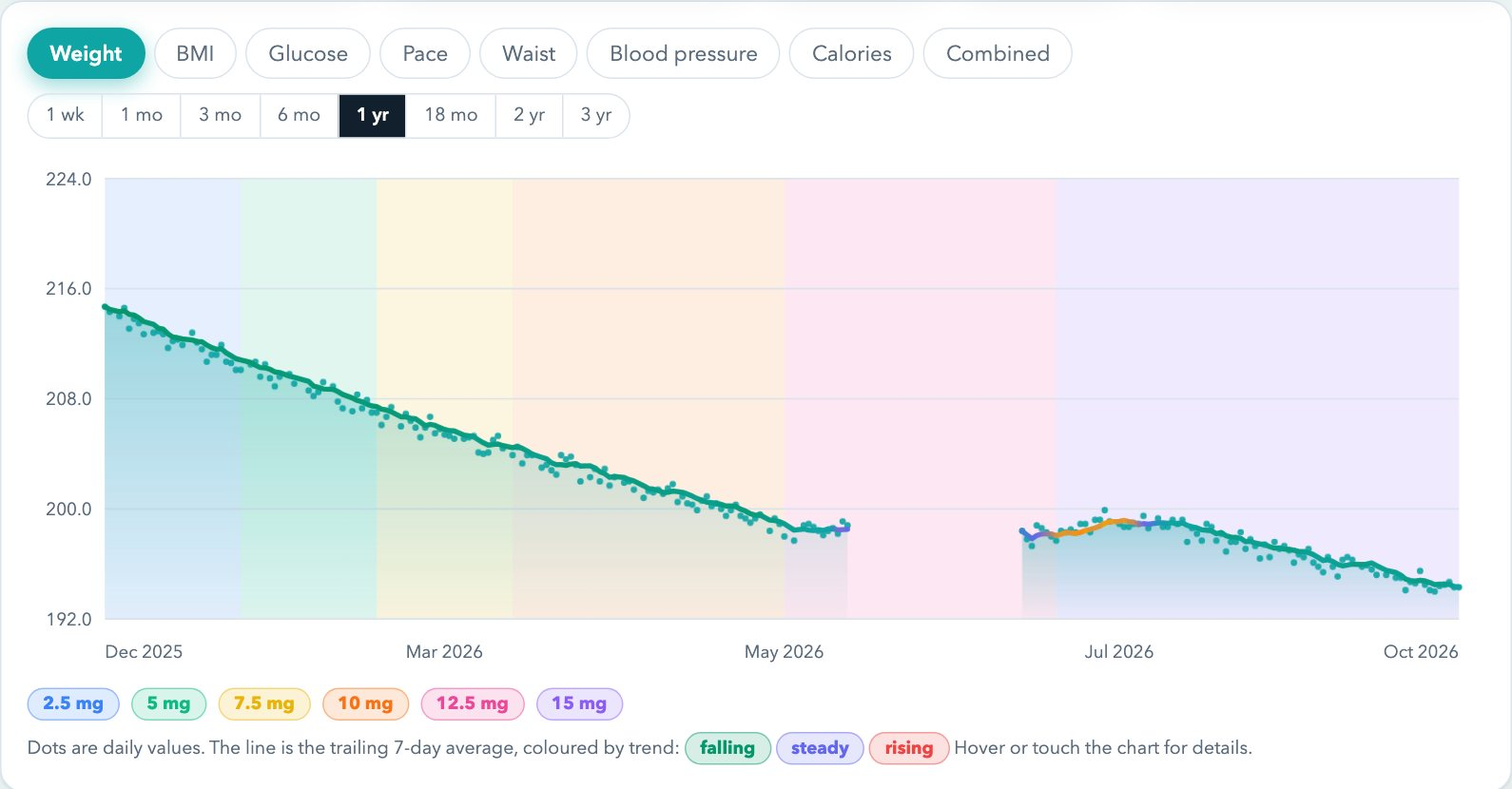
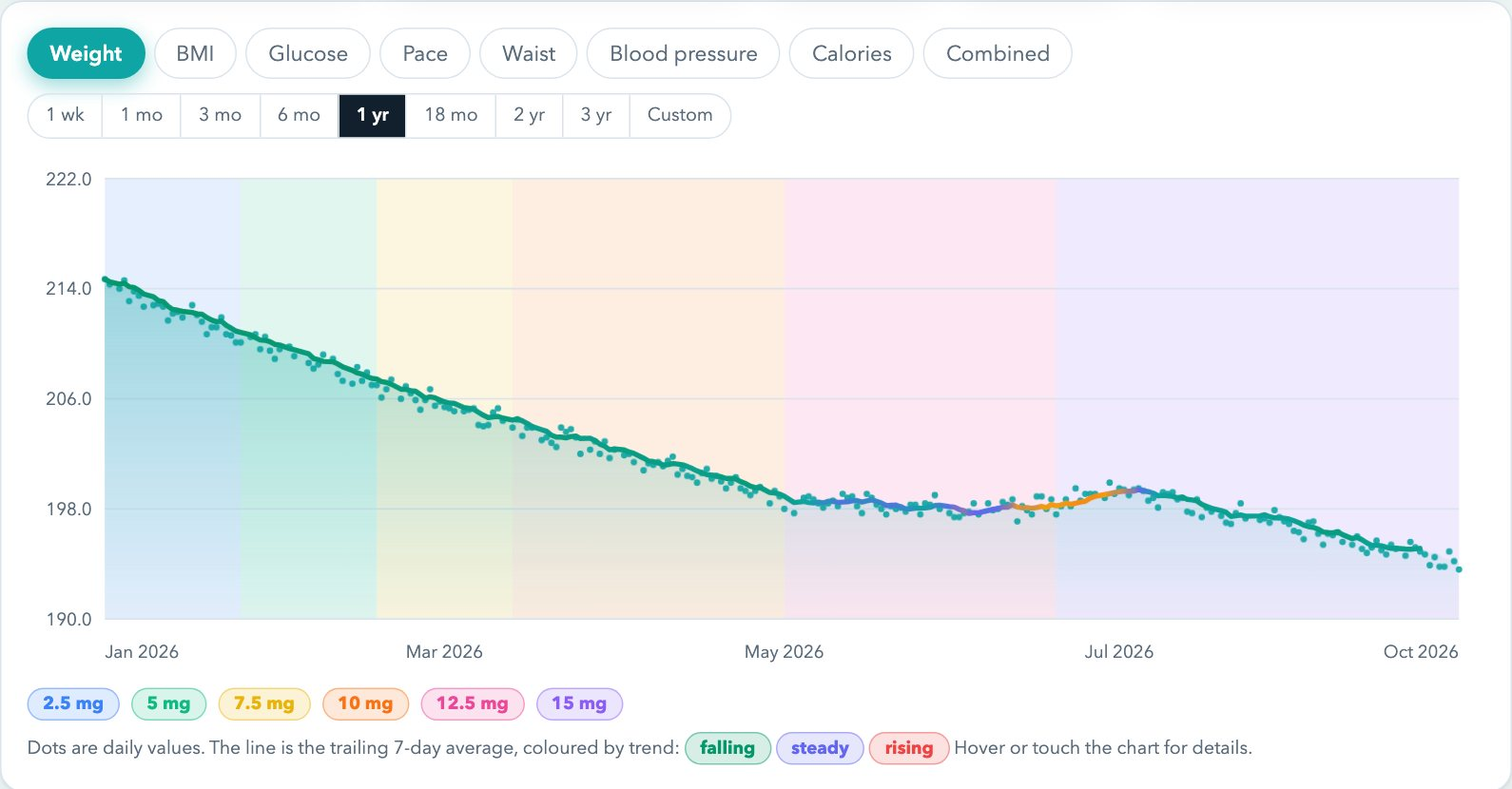
Charts: Custom From/To range with Earlier/Later steps; demo data without the holiday gap and a gap-free landing image

diff --git a/index.html b/index.html
@@ -266,13 +266,19 @@
   .seg button + button { border-left: 1px solid var(--line); }
   .seg button[aria-pressed="true"] { background: var(--ink); color: var(--panel); font-weight: 600; }
   .seg button { white-space: nowrap; }
-  /* eight range choices: two rows of four on a phone instead of a pill that runs off the screen */
+  /* nine range choices: two rows (five, then four) on a phone instead of a pill that runs off the screen */
   @media (max-width: 640px) {
-    #range { display: grid; grid-template-columns: repeat(4, 1fr); width: 100%; border-radius: 14px; }
+    #range { display: grid; grid-template-columns: repeat(5, 1fr); width: 100%; border-radius: 14px; }
     #range button { padding: 7px 4px; text-align: center; }
-    #range button:nth-child(n+5) { border-top: 1px solid var(--line); }
-    #range button:nth-child(4n+1) { border-left: 0; }
+    #range button:nth-child(n+6) { border-top: 1px solid var(--line); }
+    #range button:nth-child(5n+1) { border-left: 0; }
   }
+  .custom-range { display: flex; flex-wrap: wrap; align-items: center; gap: 8px 12px; margin-bottom: 12px; }
+  .custom-range[hidden] { display: none; }
+  .custom-range label { display: flex; align-items: center; gap: 6px; font-size: 13px; color: var(--muted); }
+  .custom-range input[type="date"] { font: inherit; font-size: 14px; color: var(--ink); background: color-mix(in srgb, var(--bg) 60%, var(--panel)); border: 1px solid var(--line); border-radius: var(--radius); padding: 4px 8px; }
+  .custom-range .note { margin: 0; flex-basis: 100%; }
+  .custom-range .note:empty { display: none; }
 
   #chart { position: relative; }
   svg { width: 100%; height: auto; display: block; touch-action: pan-y; }
@@ -514,7 +520,15 @@
         <button type="button" data-days="548" aria-pressed="false">18 mo</button>
         <button type="button" data-days="730" aria-pressed="false">2 yr</button>
         <button type="button" data-days="1095" aria-pressed="false">3 yr</button>
+        <button type="button" data-days="custom" aria-pressed="false">Custom</button>
       </div>
+    </div>
+    <div class="custom-range" id="customRange" role="group" aria-label="Custom date range" hidden>
+      <button type="button" class="small" id="cPrev" aria-label="Show the earlier period of the same length">&#9664; Earlier</button>
+      <label>From <input type="date" id="cFrom"></label>
+      <label>To <input type="date" id="cTo"></label>
+      <button type="button" class="small" id="cNext" aria-label="Show the later period of the same length">Later &#9654;</button>
+      <span class="note" id="customNote" role="status"></span>
     </div>
     <div class="legend cmp-pick" id="cmpPick" role="group" aria-label="Values to show on the combined chart" hidden></div>
     <div id="chart" role="tabpanel" aria-labelledby="tab-weight"></div>
@@ -714,7 +728,7 @@
   var DEMO = !SHARE_TOKEN && /^\/demo(\.html)?\/?$/.test(location.pathname);
 
   // Nine months of invented data that fills every field: dose steps up every four weeks or so, weight falls with a plateau and a small
-  // rise, a five-week holiday gap, comments, calories, food notes, glucose, injection sites, blood pressure, waist, body fat and muscle.
+  // rise, comments, calories, food notes, glucose, injection sites, blood pressure, waist, body fat and muscle.
   function demoStart() { return addDays(today(), -(40 * 7 - 1)); }
   function demoSettings() { return { goal: 175, heightIn: 69, units: 'us', doseDay: weekday(demoStart()) }; }
   function demoEntries() {
@@ -733,7 +747,6 @@
     var start = demoStart(), inj = weekday(start), siteN = 0, list = [], total = 40 * 7;
     for (var i = 0; i < total; i++) {
       var d = addDays(start, i), wk = i / 7, dow = (weekday(d) - inj + 7) % 7, last = i === total - 1;
-      if (!last && wk >= 22 && wk < 27) continue;                 // a holiday with no logging
       if (!last && dow !== 0 && rnd() < 0.12) continue;           // the odd missed day
       var dose = 2.5; DOSE_AT.forEach(function (x) { if (wk >= x[0]) dose = x[1]; });
       var e = { date: d, dose: dose, weight: r1(base(wk) + (rnd() - 0.5) * 1.4 + (dow >= 3 && dow <= 5 ? 0.4 : 0)),
@@ -1417,12 +1430,25 @@
   /* ---------- chart ---------- */
   // How much history the charts show, counted back from the latest entry. Three months unless the person chose otherwise
   // (the choice is remembered on this device only). Mirrored by ChartRange in the iPhone app.
+  // "Custom" lets the person pick exact From and To dates (and step earlier or later by the same length) to look at history closely.
   var RANGE_DAYS = [7, 30, 90, 180, 365, 548, 730, 1095], DEFAULT_RANGE = 90, RANGE_KEY = 'tirzepatide-chart-range';
+  var customFrom = null, customTo = null;   // ISO dates while the range is 'custom'
+  function isoDate(v) { return /^\d{4}-\d{2}-\d{2}$/.test(v || '') && !isNaN(new Date(v + 'T00:00:00').getTime()); }
   function loadRange() {
     if (SHARE_TOKEN || DEMO) return DEFAULT_RANGE;
-    try { var v = parseInt(localStorage.getItem(RANGE_KEY), 10); if (RANGE_DAYS.indexOf(v) >= 0) return v; } catch (e) {}
+    try {
+      var raw = localStorage.getItem(RANGE_KEY) || '', c = /^custom\|(\d{4}-\d{2}-\d{2})\|(\d{4}-\d{2}-\d{2})$/.exec(raw);
+      if (c && isoDate(c[1]) && isoDate(c[2]) && c[1] <= c[2]) { customFrom = c[1]; customTo = c[2]; return 'custom'; }
+      var v = parseInt(raw, 10); if (RANGE_DAYS.indexOf(v) >= 0) return v;
+    } catch (e) {}
     return DEFAULT_RANGE;
   }
+  function saveRange() {
+    if (SHARE_TOKEN || DEMO) return;
+    try { localStorage.setItem(RANGE_KEY, currentRange === 'custom' ? 'custom|' + customFrom + '|' + customTo : String(currentRange)); } catch (e) {}
+  }
+  // What the chart builders take: the last N days back from the latest entry, or an exact From/To window
+  function rangeOpts() { return currentRange === 'custom' ? { from: customFrom, to: customTo } : { days: currentRange }; }
   var currentMetric = 'weight', currentRange = loadRange(), chartSeq = 0;
   var METRICS = {
     weight: { key: 'weight', get label() { return 'Weight (' + WUC() + ')'; }, color: '#0ea5a4', dec: 1 },
@@ -1538,10 +1564,11 @@
                                 : (!o.days || dayDiff(e.date, lastAll) <= o.days);
       if (ok) idxs.push(i);
     });
-    if (!idxs.length) { if (o.print) return null; idxs = [series.length - 1]; }
+    if (!idxs.length) { if (o.print || o.from || o.to) return null; idxs = [series.length - 1]; }
     var pts = idxs.map(function (i) { return { e: series[i], v: series[i][vk], a: avg[i], d: bp ? series[i].dia : null, a2: bp ? avg2[i] : null }; });
     var single = pts.length === 1;
-    var t0 = pts[0].e.date, tN = pts[pts.length - 1].e.date, span = Math.max(dayDiff(t0, tN), 1);
+    // an exact window (custom range) spans the whole of it on the axis, even where readings are sparse
+    var t0 = o.from || pts[0].e.date, tN = o.to || pts[pts.length - 1].e.date, span = Math.max(dayDiff(t0, tN), 1);
 
     var W = 900, H = o.print ? 300 : 320, L = 48, R = 16, T = o.title ? 32 : 14, B = 34, gid = 'ag' + (++chartSeq);
     var C = o.print ? { line: '#dbe4ec', muted: '#5a6b7c', panel: '#ffffff' } : { line: 'var(--line)', muted: 'var(--muted)', panel: 'var(--panel)' };
@@ -1673,7 +1700,7 @@
     if (!lines.length) return null;
     var dates = [];
     rows.forEach(function (e) { if (lines.some(function (l) { return l.s.val(e) !== null && l.s.val(e) !== undefined; })) dates.push(e); });
-    var t0 = dates[0].date, tN = dates[dates.length - 1].date, span = Math.max(dayDiff(t0, tN), 1), single = dates.length === 1;
+    var t0 = o.from || dates[0].date, tN = o.to || dates[dates.length - 1].date, span = Math.max(dayDiff(t0, tN), 1), single = dates.length === 1;
     var W = 900, H = o.print ? 320 : 320, L = 48, R = 16, T = o.print ? 50 : 14, B = 34;
     var C = o.print ? { line: '#dbe4ec', muted: '#5a6b7c', panel: '#ffffff' } : { line: 'var(--line)', muted: 'var(--muted)', panel: 'var(--panel)' };
     function X(d) { return single ? L + (W - L - R) / 2 : L + (dayDiff(t0, d) / span) * (W - L - R); }
@@ -1738,10 +1765,10 @@
       return '<button type="button" class="chip" data-cmp="' + x.k + '" style="--c:' + x.color + '" aria-pressed="' + (picked[x.k] ? 'true' : 'false') + '"' +
         (off ? ' disabled title="Set your height on the BMI card first"' : '') + '>' + esc(x.label) + '</button>';
     }).join('');
-    var res = buildCompare({ days: currentRange });
+    var res = buildCompare(rangeOpts());
     $('legend').innerHTML = '';
     if (!res) {
-      $('chart').innerHTML = '<div class="empty">' + (chosen.length ? 'No values to plot for the chosen items yet.' : 'Choose at least one item above.') + '</div>';
+      $('chart').innerHTML = '<div class="empty">' + (chosen.length ? (currentRange === 'custom' ? 'No readings of the chosen items between ' + esc(fmtDate(customFrom)) + ' and ' + esc(fmtDate(customTo)) + '.' : 'No values to plot for the chosen items yet.') : 'Choose at least one item above.') + '</div>';
       return;
     }
     $('chart').innerHTML = '<div class="tip" id="tip"></div>' + res.svg;
@@ -1795,9 +1822,9 @@
     if (currentMetric === 'compare') { renderCompare(); return; }
     $('tab-bmi').hidden = !settings.heightIn;
     if (currentMetric === 'bmi' && !settings.heightIn) { selectTab($('tab-weight')); return; }
-    var m = METRICS[currentMetric], res = buildChart(currentMetric, { days: currentRange });
+    var m = METRICS[currentMetric], res = buildChart(currentMetric, rangeOpts());
     if (!res) {
-      $('chart').innerHTML = '<div class="empty">No ' + esc(m.label) + ' values to plot yet.</div>';
+      $('chart').innerHTML = '<div class="empty">' + (currentRange === 'custom' ? 'No ' + esc(m.label) + ' readings between ' + esc(fmtDate(customFrom)) + ' and ' + esc(fmtDate(customTo)) + '.' : 'No ' + esc(m.label) + ' values to plot yet.') + '</div>';
       $('legend').innerHTML = '';
       return;
     }
@@ -2217,15 +2244,50 @@
     });
   });
   tabs.forEach(function (t) { t.style.setProperty('--c', METRICS[t.dataset.metric].color); });
-  Array.prototype.forEach.call($('range').querySelectorAll('button'), function (x) { x.setAttribute('aria-pressed', parseInt(x.dataset.days, 10) === currentRange ? 'true' : 'false'); });
-  Array.prototype.forEach.call($('range').querySelectorAll('button'), function (b) {
+  var rangeBtns = Array.prototype.slice.call($('range').querySelectorAll('button'));
+  function syncRangeUi() {
+    rangeBtns.forEach(function (x) {
+      var on = x.dataset.days === 'custom' ? currentRange === 'custom' : +x.dataset.days === currentRange;
+      x.setAttribute('aria-pressed', on ? 'true' : 'false');
+    });
+    $('customRange').hidden = currentRange !== 'custom';
+    if (currentRange === 'custom') { $('cFrom').value = customFrom; $('cTo').value = customTo; }
+  }
+  rangeBtns.forEach(function (b) {
     b.addEventListener('click', function () {
-      currentRange = parseInt(b.dataset.days, 10);
-      if (!SHARE_TOKEN && !DEMO) { try { localStorage.setItem(RANGE_KEY, String(currentRange)); } catch (e) {} }
-      Array.prototype.forEach.call($('range').querySelectorAll('button'), function (x) { x.setAttribute('aria-pressed', x === b ? 'true' : 'false'); });
-      renderChart();
+      if (b.dataset.days === 'custom') {
+        if (currentRange !== 'custom') {   // start from what is on screen now
+          var all = sorted(), last = all.length ? all[all.length - 1].date : today();
+          customTo = last;
+          customFrom = typeof currentRange === 'number' ? addDays(last, -currentRange) : last;
+          if (all.length && customFrom < all[0].date) customFrom = all[0].date;
+          currentRange = 'custom';
+        }
+      } else currentRange = parseInt(b.dataset.days, 10);
+      saveRange(); syncRangeUi(); renderChart();
     });
   });
+  // From/To dates and the step buttons; the window may not be backwards
+  function setCustom(from, to) {
+    if (!isoDate(from) || !isoDate(to)) return false;
+    if (from > to) { $('customNote').textContent = 'The From date must not be after the To date.'; return false; }
+    customFrom = from; customTo = to; currentRange = 'custom';
+    $('customNote').textContent = '';
+    saveRange(); syncRangeUi(); renderChart();
+    return true;
+  }
+  ['cFrom', 'cTo'].forEach(function (id) {
+    $(id).addEventListener('change', function () {
+      if (!setCustom($('cFrom').value, $('cTo').value)) { $('cFrom').value = customFrom; $('cTo').value = customTo; }
+    });
+  });
+  function stepCustom(dir) {
+    var len = dayDiff(customFrom, customTo) + 1;
+    setCustom(addDays(customFrom, dir * len), addDays(customTo, dir * len));
+  }
+  $('cPrev').addEventListener('click', function () { stepCustom(-1); });
+  $('cNext').addEventListener('click', function () { stepCustom(1); });
+  syncRangeUi();
   $('pager').addEventListener('click', function (ev) {
     var b = ev.target.closest('button[data-page]');
     if (!b || b.disabled) return;

diff --git a/tests/smoke.spec.js b/tests/smoke.spec.js
@@ -642,6 +642,74 @@ test('insights: no fast-loss notice for a gentle pace; gaps are reported', async
   await expect(page.locator('#insights .ins', { hasText: 'Weigh-ins' })).toContainText('Longest gap 9 days');
 });
 
+// steadyLossCsv(): one weigh-in a day from 2026-08-01 (200 lbs, down 0.5 a day) for 57 days
+async function customRange(page, from, to) {
+  await page.locator('#range button[data-days="custom"]').click();
+  await page.locator('#cFrom').fill(from); await page.locator('#cTo').fill(to);
+}
+
+test('custom chart range: exact From and To dates, kept after a reload', async ({ page }) => {
+  await pasteCsv(page, steadyLossCsv());
+  await expect(page.locator('#customRange')).toBeHidden();
+  await page.locator('#range button[data-days="custom"]').click();
+  await expect(page.locator('#customRange')).toBeVisible();
+  await expect(page.locator('#range button[data-days="custom"]')).toHaveAttribute('aria-pressed', 'true');
+  await expect(page.locator('#range button[data-days="90"]')).toHaveAttribute('aria-pressed', 'false');
+
+  await customRange(page, '2026-08-10', '2026-08-19');
+  const svg = page.locator('#chart svg[role="img"]');
+  await svg.focus();
+  await page.keyboard.press('Home');
+  await expect(page.locator('#tip')).toContainText(/Aug(ust)? 10|10 Aug/);
+  await expect(page.locator('#tip')).toContainText('195.5');           // 200 - 0.5 x 9
+  await page.keyboard.press('End');
+  await expect(page.locator('#tip')).toContainText(/Aug(ust)? 19|19 Aug/);
+  await expect(page.locator('#tip')).toContainText('191.0');
+
+  await page.reload();
+  await expect(page.locator('#range button[data-days="custom"]')).toHaveAttribute('aria-pressed', 'true');
+  await expect(page.locator('#cFrom')).toHaveValue('2026-08-10');
+  await expect(page.locator('#cTo')).toHaveValue('2026-08-19');
+  await page.locator('#range button[data-days="30"]').click();
+  await expect(page.locator('#customRange')).toBeHidden();
+  await page.reload();
+  await expect(page.locator('#range button[data-days="30"]')).toHaveAttribute('aria-pressed', 'true');
+});
+
+test('custom chart range: step earlier and later by the same length, backwards dates refused, empty window explained', async ({ page }) => {
+  await pasteCsv(page, steadyLossCsv());
+  await customRange(page, '2026-08-10', '2026-08-19');
+  await page.locator('#cNext').click();
+  await expect(page.locator('#cFrom')).toHaveValue('2026-08-20');
+  await expect(page.locator('#cTo')).toHaveValue('2026-08-29');
+  await page.locator('#cPrev').click();
+  await page.locator('#cPrev').click();
+  await expect(page.locator('#cFrom')).toHaveValue('2026-07-31');
+  await expect(page.locator('#cTo')).toHaveValue('2026-08-09');
+  await expect(page.locator('#chart svg[role="img"]')).toBeVisible();
+
+  await page.locator('#cFrom').fill('2026-09-01');                      // after To: refused, the old window stays
+  await expect(page.locator('#customNote')).toContainText('must not be after');
+  await expect(page.locator('#cFrom')).toHaveValue('2026-07-31');
+
+  await customRange(page, '2026-01-01', '2026-01-31');                  // before any reading
+  await expect(page.locator('#chart .empty')).toContainText('between');
+  await expect(page.locator('#chart svg[role="img"]')).toHaveCount(0);
+});
+
+test('custom chart range: the axis spans the chosen window and the combined chart follows it', async ({ page }) => {
+  await pasteCsv(page, steadyLossCsv());
+  await customRange(page, '2026-08-10', '2026-09-10');                  // a window that runs past the last reading's neighbours
+  const labels = await page.locator('#chart svg[role="img"] text').allTextContents();
+  expect(labels.some((t) => /Aug(ust)? 10|10 Aug/.test(t))).toBe(true);
+  expect(labels.some((t) => /Sep(tember)? 10|10 Sep/.test(t))).toBe(true);
+  await page.locator('#tab-compare').click();
+  await expect(page.locator('#chart svg[role="img"]')).toBeVisible();
+  await page.locator('#chart svg[role="img"]').focus();
+  await page.keyboard.press('Home');
+  await expect(page.locator('#tip')).toContainText(/Aug(ust)? 10|10 Aug/);
+});
+
 test('pace chart tab: zero line, fast-loss line and orange dots', async ({ page }) => {
   await pasteCsv(page, steadyLossCsv());
   await page.locator('#tab-rate').click();
@@ -871,7 +939,7 @@ test('the weight line is coloured by trend: green when falling, blue-violet when
 test('chart range: eight choices from 1 week to 3 years, 3 months by default, remembered on this device', async ({ page }) => {
   await importSample(page);                                              // a year of entries ending 2026-09-30
   const labels = await page.locator('#range button').allTextContents();
-  expect(labels).toEqual(['1 wk', '1 mo', '3 mo', '6 mo', '1 yr', '18 mo', '2 yr', '3 yr']);
+  expect(labels).toEqual(['1 wk', '1 mo', '3 mo', '6 mo', '1 yr', '18 mo', '2 yr', '3 yr', 'Custom']);
   await expect(page.locator('#range button[aria-pressed="true"]')).toHaveText('3 mo');
   const dots = () => page.locator('#chart svg[role="img"] circle.fade').count();
   // weigh-ins in view for a range, counted back from the latest entry (the same rule the chart uses)

diff --git a/tests/demo.spec.js b/tests/demo.spec.js
@@ -48,7 +48,7 @@ test('the demo fills every field and has the shapes the app shows off', async ({
   expect(w[0]).toBeGreaterThan(205); expect(w.at(-1)).toBeLessThan(200); expect(w.at(-1)).toBeGreaterThan(180);   // a believable loss
   expect(new Set(col(7)).size).toBe(6);                                                                     // all six injection sites
   const gaps = dates.slice(1).map((d, i) => (new Date(d) - new Date(dates[i])) / 86400000);
-  expect(Math.max(...gaps)).toBeGreaterThanOrEqual(31);                                                     // the holiday gap that breaks the chart line
+  expect(Math.max(...gaps)).toBeLessThan(10);                                                               // no long silence: the chart line is unbroken
   expect(col(8).every((v) => +v >= 105 && +v <= 140)).toBe(true);
   expect(col(6).every((v) => +v >= 84 && +v <= 118)).toBe(true);
   expect(col(3).some((c) => /Dose increased/.test(c))).toBe(true);
@@ -64,7 +64,7 @@ test('every chart and insight has data to show', async ({ page }) => {
   }
   await page.locator('#tab-weight').click();
   const path = page.locator('#chart svg path[stroke-width="3.2"]');
-  expect(((await path.getAttribute('d')) || '').match(/M/g).length).toBeGreaterThanOrEqual(2);              // the holiday splits the line
+  expect(((await path.getAttribute('d')) || '').match(/M/g).length).toBe(1);                                // one unbroken line, no gap
   await page.locator('#insightsPanel > summary').click();
   await expect(page.locator('#insights')).toContainText('Milestones');
   await expect(page.locator('#insights')).toContainText('Best week');

diff --git a/CLAUDE.md b/CLAUDE.md
@@ -10,7 +10,7 @@ Single-file web app (`index.html`): HTML, CSS and vanilla JS in one file. Live a
 - Top row (stats): latest weight, goal (ring + projection from a 28-day least-squares slope; Set a goal / Edit open the settings dialog), change since start, latest fasting glucose. Below it, the plan row, built from the same `.stat` cards so it is exactly as tall as the top row: Current dose (with week and start date), Next dose (weekday from settings, else last logged site date, else current dose start; a 7-segment strip along the bottom whose filled segments warm from green to red as the dose day nears; Change link), a `.stack-box`/`.stack` slot holding two small panels (Days covered, and Latest BP coloured by category once any BP is logged; Days covered alone keeps a full panel otherwise): near-square side-by-side tiles when the slot is 220px or wider, compact stacked strips below that (container query on `.stack-box`), and BMI. There is no Backup card; the only export buttons are the bottom button row's Export CSV and the backup line's link (`lastExport` is still recorded by `markBackedUp()`).
 - "Results by dose" panel: lbs/week per dose segment.
 - BMI card (plan cards, next to Next dose): until a height is saved it shows one text field (accepts `5'9"`, `5 9`, `69 in`, `175 cm`; saves on Enter/blur, no button); afterwards BMI is calculated automatically from the latest weigh-in. Height is stored in inches as `settings.heightIn` and edited from the card's Edit link (settings dialog). The card shows the stage name and distance to the next stage on the left (✎ edits the height) and a gauge ring on the right with the BMI value inside it (270° arc, BMI 15 to 45, stage-coloured segments, marker at the current BMI; smaller in narrow cards via a container query); hovering/focusing/tapping a segment describes that stage, and hovering/focusing/tapping the BMI number pops up a bubble with four rows (Latest, Start, Next, Pace; the report keeps the full sentence from `bmiNextText()`); hovering, focusing (keyboard) or tapping a coloured segment pops up a bubble above the ring with that stage's BMI and weight range (nothing is reserved for it when idle). Stages (`BMI_STAGES`): underweight blue, normal green, overweight amber, obesity I orange, II deep orange, III red; the rounded value decides.
-- Stats cards, tabbed charts (weight / BMI / glucose / Pace / Waist / blood pressure / calories; Pace = rolling 4-week lbs/week with a zero line and the fast-loss line, orange dots above it; Waist has a dashed half-height line when a height is saved; the BMI tab only shows once a height is saved, dots coloured by BMI stage with dashed stage threshold lines) with dose bands, 7-day average line, hover tooltip, range choice (1 wk, 1 mo, 3 mo default, 6 mo, 1 yr, 18 mo, 2 yr, 3 yr; `RANGE_DAYS`, kept in `tirzepatide-chart-range` on this device only, never synced).
+- Stats cards, tabbed charts (weight / BMI / glucose / Pace / Waist / blood pressure / calories; Pace = rolling 4-week lbs/week with a zero line and the fast-loss line, orange dots above it; Waist has a dashed half-height line when a height is saved; the BMI tab only shows once a height is saved, dots coloured by BMI stage with dashed stage threshold lines) with dose bands, 7-day average line, hover tooltip, range choice (1 wk, 1 mo, 3 mo default, 6 mo, 1 yr, 18 mo, 2 yr, 3 yr, or Custom with From/To dates and Earlier/Later buttons that step by the same length; `RANGE_DAYS`, `customFrom/customTo`, `rangeOpts()`; kept in `tirzepatide-chart-range` as `90` or `custom|from|to` on this device only, never synced; a custom window spans the whole From-To on the axis and an empty one says so).
 - Combined chart tab (`buildCompare()`, `COMPARE_SERIES`): pick any of weight, BMI (needs height), glucose, systolic, diastolic, waist, body fat, muscle, calories with the chips above the chart (saved in `settings.compare`, default weight/glucose/systolic). Each line is min-max scaled to its own range in view (shape, not size), dots are daily values, lines are 7-day averages; the tooltip shows real values. Optional in the doctor report (`rcCompare`, off by default) with the line names drawn inside the image.
 - Settings dialog also has "Add weekly dose reminder to calendar (.ics)" (`#sIcs`, weekly RRULE on the injection day), the web counterpart of the iOS dose-reminder notification.
 - The Share with doctor (primary, signed in only) / Import data / Export CSV / Settings / Clear all data buttons (and Install app when offered) are a `.page-bar` row below the Add entry panel, not in the header. Sync is automatic, so there is no Cloud sync button: sync status, Sync now and Sign out live in the Settings dialog, and Sign out is also in the page header.
@@ -36,7 +36,7 @@ The iPhone app (TirzTrack, SwiftUI + SwiftData) lives at `~/ios_apps.d/tir.d` (s
 On the hosted site (http/https) the app shows only the landing page (`#landing`: marketing copy, sample screenshots from `landing/*.jpg` made by `node tests/make-landing-shots.js` from the fake sample year, Sign in button, "Request an invite" mailto to info@phoe.be) until someone is signed in; no graph, entry or setting is visible, and the hosted data file is not fetched. The gate is `applyGate()` plus a tiny script in `<head>` that sets `html.landing` before first paint (so there is no flash of the dashboard); `main > *` except the landing and `#msg` are hidden by CSS under it. It is a view gate, not encryption: the log still sits in this browser's `localStorage` (and stays there after sign-out). Not gated: `file://`, and doctor links (`#share=<token>`). The old `#cloud` URL flag is gone.  Tests: the "landing:" and "hosted and signed out" cases in `tests/cloud.spec.js`.
 
 ## Public demo and search indexing
-`https://tirzepatide.phoe.be/demo` (the file `demo.html`, a copy of the hosted `index.html`; a CloudFront function maps `/demo` to it, see the cloud repo's `site.tf`) is the whole app filled with made-up data for anyone: no sign-in, no sync, no storage. `DEMO` (detected from the address) makes `load()/loadSettings()` return `demoEntries()`/`demoSettings()` (deterministic invented data ending today: all six dose steps, a plateau and small rise, a five-week holiday gap, every one of the 13 fields, all six injection sites) and turns `save()/saveSettings()/loadSync()` and the chart-range storage into no-ops, so the visitor's own data is never read or written; edits live in memory and vanish on reload. The landing page has a "Try it first, no sign-in needed" panel above the doctor-link panel (screenshot `landing/demo.jpg` from `node tests/make-landing-shots.js`). Tests: `tests/demo.spec.js`. Add a field to the log and `demoEntries()` must fill it too (the test checks all 13 columns).
+`https://tirzepatide.phoe.be/demo` (the file `demo.html`, a copy of the hosted `index.html`; a CloudFront function maps `/demo` to it, see the cloud repo's `site.tf`) is the whole app filled with made-up data for anyone: no sign-in, no sync, no storage. `DEMO` (detected from the address) makes `load()/loadSettings()` return `demoEntries()`/`demoSettings()` (deterministic invented data ending today: all six dose steps, a plateau and small rise, no long gap (so the chart line is unbroken; gap-breaking is covered by smoke tests with hand-built data), every one of the 13 fields, all six injection sites) and turns `save()/saveSettings()/loadSync()` and the chart-range storage into no-ops, so the visitor's own data is never read or written; edits live in memory and vanish on reload. The landing page has a "Try it first, no sign-in needed" panel above the doctor-link panel (screenshot `landing/demo.jpg` from `node tests/make-landing-shots.js`). Tests: `tests/demo.spec.js`. Add a field to the log and `demoEntries()` must fill it too (the test checks all 13 columns).
 Nothing under tirzepatide.phoe.be may be indexed: CloudFront adds `X-Robots-Tag: noindex, nofollow` to every response (the headers policy in `site.tf`), every page also carries `<meta name="robots" content="noindex, nofollow">` (so the GitHub Pages and www.phoe.be forwarding copies are covered too), and there is deliberately NO `Disallow` in a robots.txt (a blocked page cannot show Google its noindex).
 
 ## Cloud sync (optional, invite only)

diff --git a/PARITY.md b/PARITY.md
@@ -28,7 +28,7 @@ Legend: yes, no, partial.
 | Waist, body fat, muscle mass | yes | yes | iOS stores inches/%/lbs like the web; shows cm with the kg setting. Waist chart has the dashed half-height line and waist-to-height ratio on both |
 | Weight chart with 7-day average line | yes | yes | iOS replaced its regression trend line with the web 7-day average |
 | Chart tabs (weight, BMI, glucose, pace, waist, BP, calories, combined) | yes | yes | iOS lists them as stacked cards on Trends, and also has body fat and muscle charts. Maths mirrored and tested (`ExtraChartsView`): trailing 7-day average, rolling 4-week pace, ADA zones, BMI stages |
-| Chart range (1 wk, 1 mo, 3 mo default, 6 mo, 1 yr, 18 mo, 2 yr, 3 yr) and shaded dose bands | yes (`RANGE_DAYS`, remembered per device in `tirzepatide-chart-range`) | yes (`ChartRange`, `chartRangeDays`) | Counted back from the latest entry, not from today; no "All" (3 yr is the longest), an old stored All becomes 3 mo; the choice is per device and never synced. Phones show the eight choices in two rows of four. Tests: web smoke `chart range`, iOS `ChartRangeTests` |
+| Chart range (1 wk, 1 mo, 3 mo default, 6 mo, 1 yr, 18 mo, 2 yr, 3 yr, Custom From/To with Earlier/Later steps) and shaded dose bands | yes (`RANGE_DAYS`, `customFrom/customTo`, remembered per device in `tirzepatide-chart-range`) | yes (`ChartRange`, `chartRangeDays` = -1 for Custom, `chartCustomFrom/To`) | Counted back from the latest entry, not from today; no "All" (3 yr is the longest), an old stored All becomes 3 mo; the choice is per device and never synced. A custom window spans exactly From to To (inclusive) and Earlier/Later move it by its own length. Phones show the nine choices in two rows (five, four). Tests: web smoke `chart range` and `custom chart range`, iOS `ChartRangeTests` |
 | Goal weight and projection | yes | yes | |
 | 30/90-day forecast | yes | yes | Web: two boxes in More insights; iOS: Weight Forecast card. Both use the 28-day pace |
 | BMI with stage, scale, next stage and projection | yes | yes | Web: gauge ring with hover details; iOS: scale bar with the same next-stage sentence (`BMICategory.next`, web `bmiNextInfo`) |
